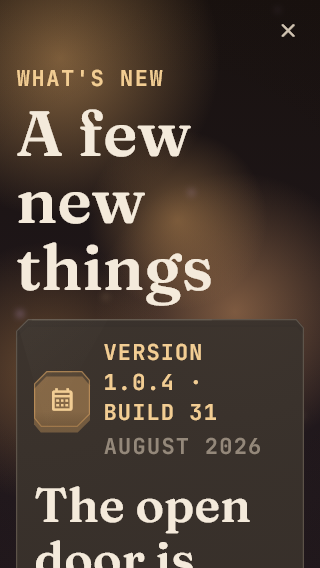
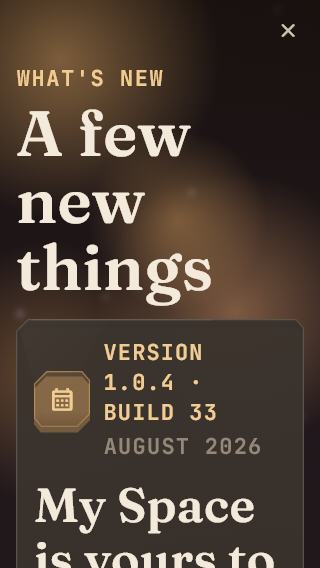
release: keep room-code guidance clear at large text

Changed region(s): [[0.0938, 0.838, 0.8125, 1.0], [0.7188, 0.9577, 0.875, 1.0], [0.625, 0.7183, 0.6875, 0.7482]]

diff --git a/test/large_text_accessibility_test.dart b/test/large_text_accessibility_test.dart
@@ -12,7 +12,9 @@ import 'package:emberkeep/social.dart';
 import 'package:emberkeep/tokens.dart' show Stat;
 import 'package:flutter/material.dart';
 import 'package:flutter/semantics.dart';
+import 'package:flutter/services.dart' show FontLoader, rootBundle;
 import 'package:flutter_test/flutter_test.dart';
+import 'package:google_fonts/google_fonts.dart';
 
 const _phoneSize = Size(320, 568);
 const _captureLargeText = bool.fromEnvironment('CAPTURE_LARGE_TEXT');
@@ -83,6 +85,36 @@ Map<String, dynamic> _sharedRoom() => {
 };
 
 void main() {
+  setUpAll(() async {
+    TestWidgetsFlutterBinding.ensureInitialized();
+    final icons = FontLoader('MaterialIcons')
+      ..addFont(rootBundle.load('fonts/MaterialIcons-Regular.otf'));
+    final fraunces = FontLoader('Fraunces')
+      ..addFont(rootBundle.load('assets/google_fonts/Fraunces-Bold.ttf'))
+      ..addFont(rootBundle.load('assets/google_fonts/Fraunces-SemiBold.ttf'))
+      ..addFont(
+        rootBundle.load('assets/google_fonts/Fraunces-SemiBoldItalic.ttf'),
+      );
+    final inter = FontLoader('Inter')
+      ..addFont(rootBundle.load('assets/google_fonts/Inter-Regular.ttf'))
+      ..addFont(rootBundle.load('assets/google_fonts/Inter-Medium.ttf'))
+      ..addFont(rootBundle.load('assets/google_fonts/Inter-SemiBold.ttf'))
+      ..addFont(rootBundle.load('assets/google_fonts/Inter-Bold.ttf'))
+      ..addFont(rootBundle.load('assets/google_fonts/Inter-Italic.ttf'));
+    final mono = FontLoader('JetBrainsMono')
+      ..addFont(
+        rootBundle.load('assets/google_fonts/JetBrainsMono-SemiBold.ttf'),
+      )
+      ..addFont(rootBundle.load('assets/google_fonts/JetBrainsMono-Bold.ttf'));
+    await Future.wait([
+      icons.load(),
+      fraunces.load(),
+      inter.load(),
+      mono.load(),
+    ]);
+    GoogleFonts.config.allowRuntimeFetching = false;
+  });
+
   setUp(() {
     Sfx.instance.soundEnabled = false;
     Clock.freeze(DateTime(2026, 8, 3, 10));
@@ -389,7 +421,13 @@ void main() {
     _expectComfortableTarget(tester, submit);
     await tester.tap(submit);
     await tester.pump();
-    expect(find.byKey(const Key('visit-space-error')), findsOneWidget);
+    final error = find.byKey(const Key('visit-space-error'));
+    expect(error, findsOneWidget);
+    expect(
+      tester.getRect(error).overlaps(tester.getRect(submit)),
+      false,
+      reason: 'validation copy must not paint underneath the dialog actions',
+    );
     expect(tester.takeException(), isNull);
     await _capture(tester, 'visit_error_320x568_2x');
 

diff --git a/lib/content/release_notes.dart b/lib/content/release_notes.dart
@@ -52,6 +52,45 @@ class RoomReleaseNotes {
 /// is at the front of this list and its id matches the candidate metadata.
 const roomOfDaysReleaseNotes = <RoomReleaseNotes>[
   RoomReleaseNotes(
+    id: '1.0.4+33',
+    versionLabel: 'VERSION 1.0.4 · BUILD 33',
+    dateLabel: 'AUGUST 2026',
+    title: 'My Space is yours to open.',
+    introduction:
+        'Discovery stays where you set it, every card has its own audience, '
+        'and room-code guidance stays clear at larger text.',
+    highlights: <ReleaseHighlight>[
+      ReleaseHighlight(
+        kind: ReleaseHighlightKind.spaceDiscovery,
+        title: 'OPEN MEANS OPEN',
+        body:
+            'Turning on Discover now waits for a confirmed protected save, '
+            'so the door cannot quietly snap shut or disagree with the live listing.',
+      ),
+      ReleaseHighlight(
+        kind: ReleaseHighlightKind.spaceDiscovery,
+        title: 'EVERY CARD, YOUR CALL',
+        body:
+            'About, Right now, Pinned moments, and This season can each be '
+            'Only me, Mutuals, or Anyone. Your private page layout remains yours.',
+      ),
+      ReleaseHighlight(
+        kind: ReleaseHighlightKind.roomGuide,
+        title: 'MUTUAL REALLY MEANS MUTUAL',
+        body:
+            'Mutual cards appear only when you both keep each other in Circle. '
+            'The public preview now says exactly which view it is showing.',
+      ),
+      ReleaseHighlight(
+        kind: ReleaseHighlightKind.roomGuide,
+        title: 'ROOM CODES STAY CLEAR',
+        body:
+            'Room-code guidance now stays readable above the actions, even with '
+            'the largest text on a small screen.',
+      ),
+    ],
+  ),
+  RoomReleaseNotes(
     id: '1.0.4+32',
     versionLabel: 'VERSION 1.0.4 · BUILD 32',
     dateLabel: 'AUGUST 2026',

diff --git a/test/whats_new_screen_test.dart b/test/whats_new_screen_test.dart
@@ -59,9 +59,10 @@ void main() {
     expect(find.text('OPEN MEANS OPEN'), findsOneWidget);
     expect(find.text('EVERY CARD, YOUR CALL'), findsOneWidget);
     expect(find.text('MUTUAL REALLY MEANS MUTUAL'), findsOneWidget);
+    expect(find.text('ROOM CODES STAY CLEAR'), findsOneWidget);
     expect(find.text('KEEP GOING'), findsOneWidget);
     expect(
-      find.byKey(const ValueKey('whats-new-release-1.0.4+32')),
+      find.byKey(const ValueKey('whats-new-release-1.0.4+33')),
       findsOneWidget,
     );
     expect(tester.takeException(), isNull);
@@ -153,7 +154,7 @@ void main() {
     await tester.pump();
 
     final currentTop = tester.getTopLeft(
-      find.byKey(const ValueKey('whats-new-release-1.0.4+32')),
+      find.byKey(const ValueKey('whats-new-release-1.0.4+33')),
     );
     final olderTop = tester.getTopLeft(
       find.byKey(const ValueKey('whats-new-release-1.0.0+12')),

diff --git a/test/release_notes_test.dart b/test/release_notes_test.dart
@@ -8,7 +8,7 @@ void main() {
   test('current release agrees with the source version', () {
     final pubspec = File('pubspec.yaml').readAsStringSync();
 
-    expect(currentRoomReleaseNotes.id, '1.0.4+32');
+    expect(currentRoomReleaseNotes.id, '1.0.4+33');
     expect(currentRoomReleaseNotes.title, 'My Space is yours to open.');
     expect(
       currentRoomReleaseNotes.highlights.map((highlight) => highlight.title),
@@ -16,12 +16,14 @@ void main() {
         'OPEN MEANS OPEN',
         'EVERY CARD, YOUR CALL',
         'MUTUAL REALLY MEANS MUTUAL',
+        'ROOM CODES STAY CLEAR',
       ]),
     );
     expect(pubspec, contains('version: ${currentRoomReleaseNotes.id}'));
     expect(
       roomOfDaysReleaseNotes.map((release) => release.id),
       containsAllInOrder(const [
+        '1.0.4+33',
         '1.0.4+32',
         '1.0.4+31',
         '1.0.4+30',

diff --git a/test/release_native_privacy_test.dart b/test/release_native_privacy_test.dart
@@ -137,7 +137,9 @@ void main() {
     expect(hostedWebBuilder, contains('VISITOR_PROFILE_SHARING=true'));
     expect(
       hostedWebBuilder,
-      contains('PLACE_SEARCH_APP_CHECK_WEB_SITE_KEY=6L1SoM-jCpoiyD9A99Y41P6zHtY'),
+      contains(
+        'PLACE_SEARCH_APP_CHECK_WEB_SITE_KEY=6L1SoM-jCpoiyD9A99Y41P6zHtY',
+      ),
     );
     expect(
       headers.any(
@@ -754,7 +756,7 @@ void main() {
     expect(gradle, contains('minSdk = 24'));
     expect(gradle, contains('targetSdk = 36'));
     expect(gradle, contains('ndkVersion = "28.2.13676358"'));
-    expect(pubspec, contains('version: 1.0.4+32'));
+    expect(pubspec, contains('version: 1.0.4+33'));
     expect(pubspec, contains('enable-swift-package-manager: true'));
   });
 

diff --git a/lib/social.dart b/lib/social.dart
@@ -1543,7 +1543,7 @@ class _VisitPromptState extends State<_VisitPrompt> {
     final code = _c.text.trim().toUpperCase();
     if (!_roomCodePattern.hasMatch(code)) {
       setState(() {
-        _error = 'Enter the full six-character code. Codes skip I, O, 0 and 1.';
+        _error = 'Enter 6 characters. No I, O, 0, or 1.';
       });
       return;
     }

diff --git a/RELEASE-CHECKLIST.md b/RELEASE-CHECKLIST.md
@@ -1,9 +1,37 @@
 # Room of Days Release Checklist
 
-Updated August 24, 2026. “Repository-ready” means the source is prepared; it does
+Updated August 25, 2026. “Repository-ready” means the source is prepared; it does
 not replace a signed device build or store-console review.
 
-## 1.0.4+32 iOS App Store candidate — supersedes Build 31
+## 1.0.4+33 iOS App Store candidate — supersedes Build 32
+
+Build 33 keeps Build 32's visitor-page, Discover, and server authorization work
+intact while closing one release-polish defect found by rendering the required
+320×568 phone state at 200-percent text with the real shipping fonts. An invalid
+room code could paint its guidance underneath Visit and Cancel. The shorter,
+equally complete guidance now stays above both actions, and the regression checks
+their geometry directly. `pubspec.yaml` is `1.0.4+33`.
+
+- [x] Advance to the unused iOS build number 33 and add a newest-first in-app
+  What's New record that preserves the full 1.0.4 story.
+- [x] Load the shipping fonts in the large-text visual harness, expose the real
+  dialog instead of Ahem test-font blocks, and reproduce the action overlap.
+- [x] Keep the complete invalid-code guidance readable above Visit and Cancel
+  at 320×568 and 200-percent text, with a direct no-overlap regression.
+- [x] Regenerate and inspect the exact Build 33 visual story, large-text states,
+  and seven opaque 1290×2796 App Store frames.
+- [x] Pass the complete 818-test Flutter suite, analyzer, iOS store-packet verifier,
+  Firestore emulator authorization suite, and repository consistency checks.
+- [ ] Commit and push the reviewed Build 33 source, then start exactly one manual
+  `ios-testflight` workflow from that immutable commit.
+- [ ] Confirm Apple processes and approves Build 33 for the internal `Me` group,
+  preserve the signed artifacts and receipt, then install it over Build 32.
+- [ ] Repeat the fresh-install and signed two-identity physical iPhone gate:
+  Discover acknowledgement and persistence, Anyone, one-way Circle, reciprocal
+  Mutuals, removal, block, code rotation, report, positive App Attest, native
+  handoffs, offline persistence, accessibility, sound, and warm performance.
+
+## 1.0.4+32 internal TestFlight record — superseded by Build 33
 
 Build 31 reached TestFlight but its physical-device pass exposed two connected
 gaps: the Discover switch could return to off instead of finishing its protected
@@ -52,7 +80,9 @@ generated-only. `pubspec.yaml` is `1.0.4+32`.
   `7186cc3b65aa7f99de0391ea4e82dc222cd65acc`, passed every CI gate, and
   uploaded Version 1.0.4, Build 32 with no errors. Apple finished processing
   delivery `e38fe4bd-2b66-4df3-a07f-f879d5095e2f` and Codemagic created its
-  TestFlight beta-review submission, last observed `WAITING_FOR_REVIEW`. The
+  TestFlight beta-review submission. A live August 25 check found it `Approved`
+  for the internal `Me` group, installed on an iPhone 17 and iPad (8th generation),
+  with two installs and no recorded crashes. The
   IPA, every dSYM, release evidence, hashes, and receipt are preserved under
   `../release-artifacts/room-of-days/1.0.4+32/codemagic-build-46-7186cc3/`.
 - [x] Repair the first Discover opt-in rules deadlock exposed by the signed
@@ -64,10 +94,8 @@ generated-only. `pubspec.yaml` is `1.0.4+32`.
   `e9b19bc7-4ecd-4a8e-9f30-2def2a01d691` was released at
   `2026-08-24T06:45:26Z` and its fetched source matches the tested rule exactly;
   Build 32 can retry without another binary.
-- [ ] Install Build 32 over processed Build 31 and repeat with a fresh install.
-  Verify the Discover switch stays on after server acknowledgement, then use a
-  second signed identity to prove Anyone, one-way Circle, reciprocal Mutuals,
-  removal, block, code rotation, and report behavior on a physical iPhone.
+- [x] Preserve Build 32 as the approved internal fallback. Its open signed-device
+  acceptance work carries forward to Build 33 rather than being claimed complete.
 
 ## 1.0.4+31 iOS App Store candidate — supersedes Build 30
 

diff --git a/STORE-LISTING.md b/STORE-LISTING.md
@@ -18,7 +18,7 @@ productivity language.
 - **Support URL:** `https://roomofdays.com/support`
 - **Marketing URL:** `https://roomofdays.com/`
 
-## App Store What's New — Version 1.0.4 (Build 32)
+## App Store What's New — Version 1.0.4 (Build 33)
 
 The open door is finally in the open.
 
@@ -35,6 +35,9 @@ an optional public name and generated room style, title, and level. A separate
 visitor page can share only owner-selected cards: Anyone cards for exact-code
 visitors, plus Mutuals cards after both people choose each other in Circle.
 Journal photos, private cards, and account details stay private.
+
+Room-code guidance now remains readable above Visit and Cancel at the largest
+text sizes on a small screen.
 
 ## Full description
 
@@ -84,7 +87,7 @@ It is built to be kind. Nothing takes damage, days away cost nothing, and
 coming back after a break is rewarded. Every cosmetic is earned. There are no
 ads, subscriptions, or paywalls.
 
-Build 32 keeps the generated room and visitor page separate. My Space exposes
+Build 33 keeps the generated room and visitor page separate. My Space exposes
 Open to Discover or Manage Listing directly, and Discover shows the owner's
 private/listed state and management action above the finite room directory.
 Enabling a listing remains a separate explicit switch; the app never opts
@@ -101,8 +104,9 @@ they want in their private Circle.
 The old Themes control is now Ambient Light. A live preview and the surrounding
 canvas visibly respond to every choice, while Change Space remains the full-room
 chooser. This build also retains the seven-session guided-workout chooser and
-movement-linked quest sound behavior. Protected Google place search remains
-intentionally off.
+movement-linked quest sound behavior. Room-code validation stays clear above
+the dialog actions at the largest text sizes. Protected Google place search
+remains intentionally off.
 
 Feedback on clarity, warmth, performance, and anything that gets between you
 and doing what matters is especially useful.
@@ -158,6 +162,8 @@ and doing what matters is especially useful.
   the completed honey mark should catch the eye without losing the book.
 - Repeat important flows offline, with Reduce Motion, Larger Text, and
   VoiceOver.
+- At the largest text size on a small phone, enter a short room code and confirm
+  its guidance remains fully readable above Visit and Cancel.
 
 Report anything confusing, slow, visually cold, or unrewarding, plus anything
 that makes returning after a break feel harder than it should.
@@ -295,7 +301,7 @@ and [regulated-medical-device status](https://developer.apple.com/help/app-store
   services.
 - **News and Magazine apps:** No.
 - **COVID-19 contact tracing or status app:** No.
-- **Advertising ID:** No. The exact Build 32 permission inventory contains no
+- **Advertising ID:** No. The exact Build 33 permission inventory contains no
   `com.google.android.gms.permission.AD_ID`, and the app performs no advertising
   or analytics.
 - **Photo and video permissions:** No broad-media declaration is expected. The
@@ -314,7 +320,7 @@ and [regulated-medical-device status](https://developer.apple.com/help/app-store
   remain text-free and private.
 
 After completing the forms, open both `Needs attention` and `Actioned` on the
-App content page. Resolve every card Play Console actually shows for Build 32;
+App content page. Resolve every card Play Console actually shows for Build 33;
 policy cards can change and the console is authoritative about which forms are
 pending.
 
